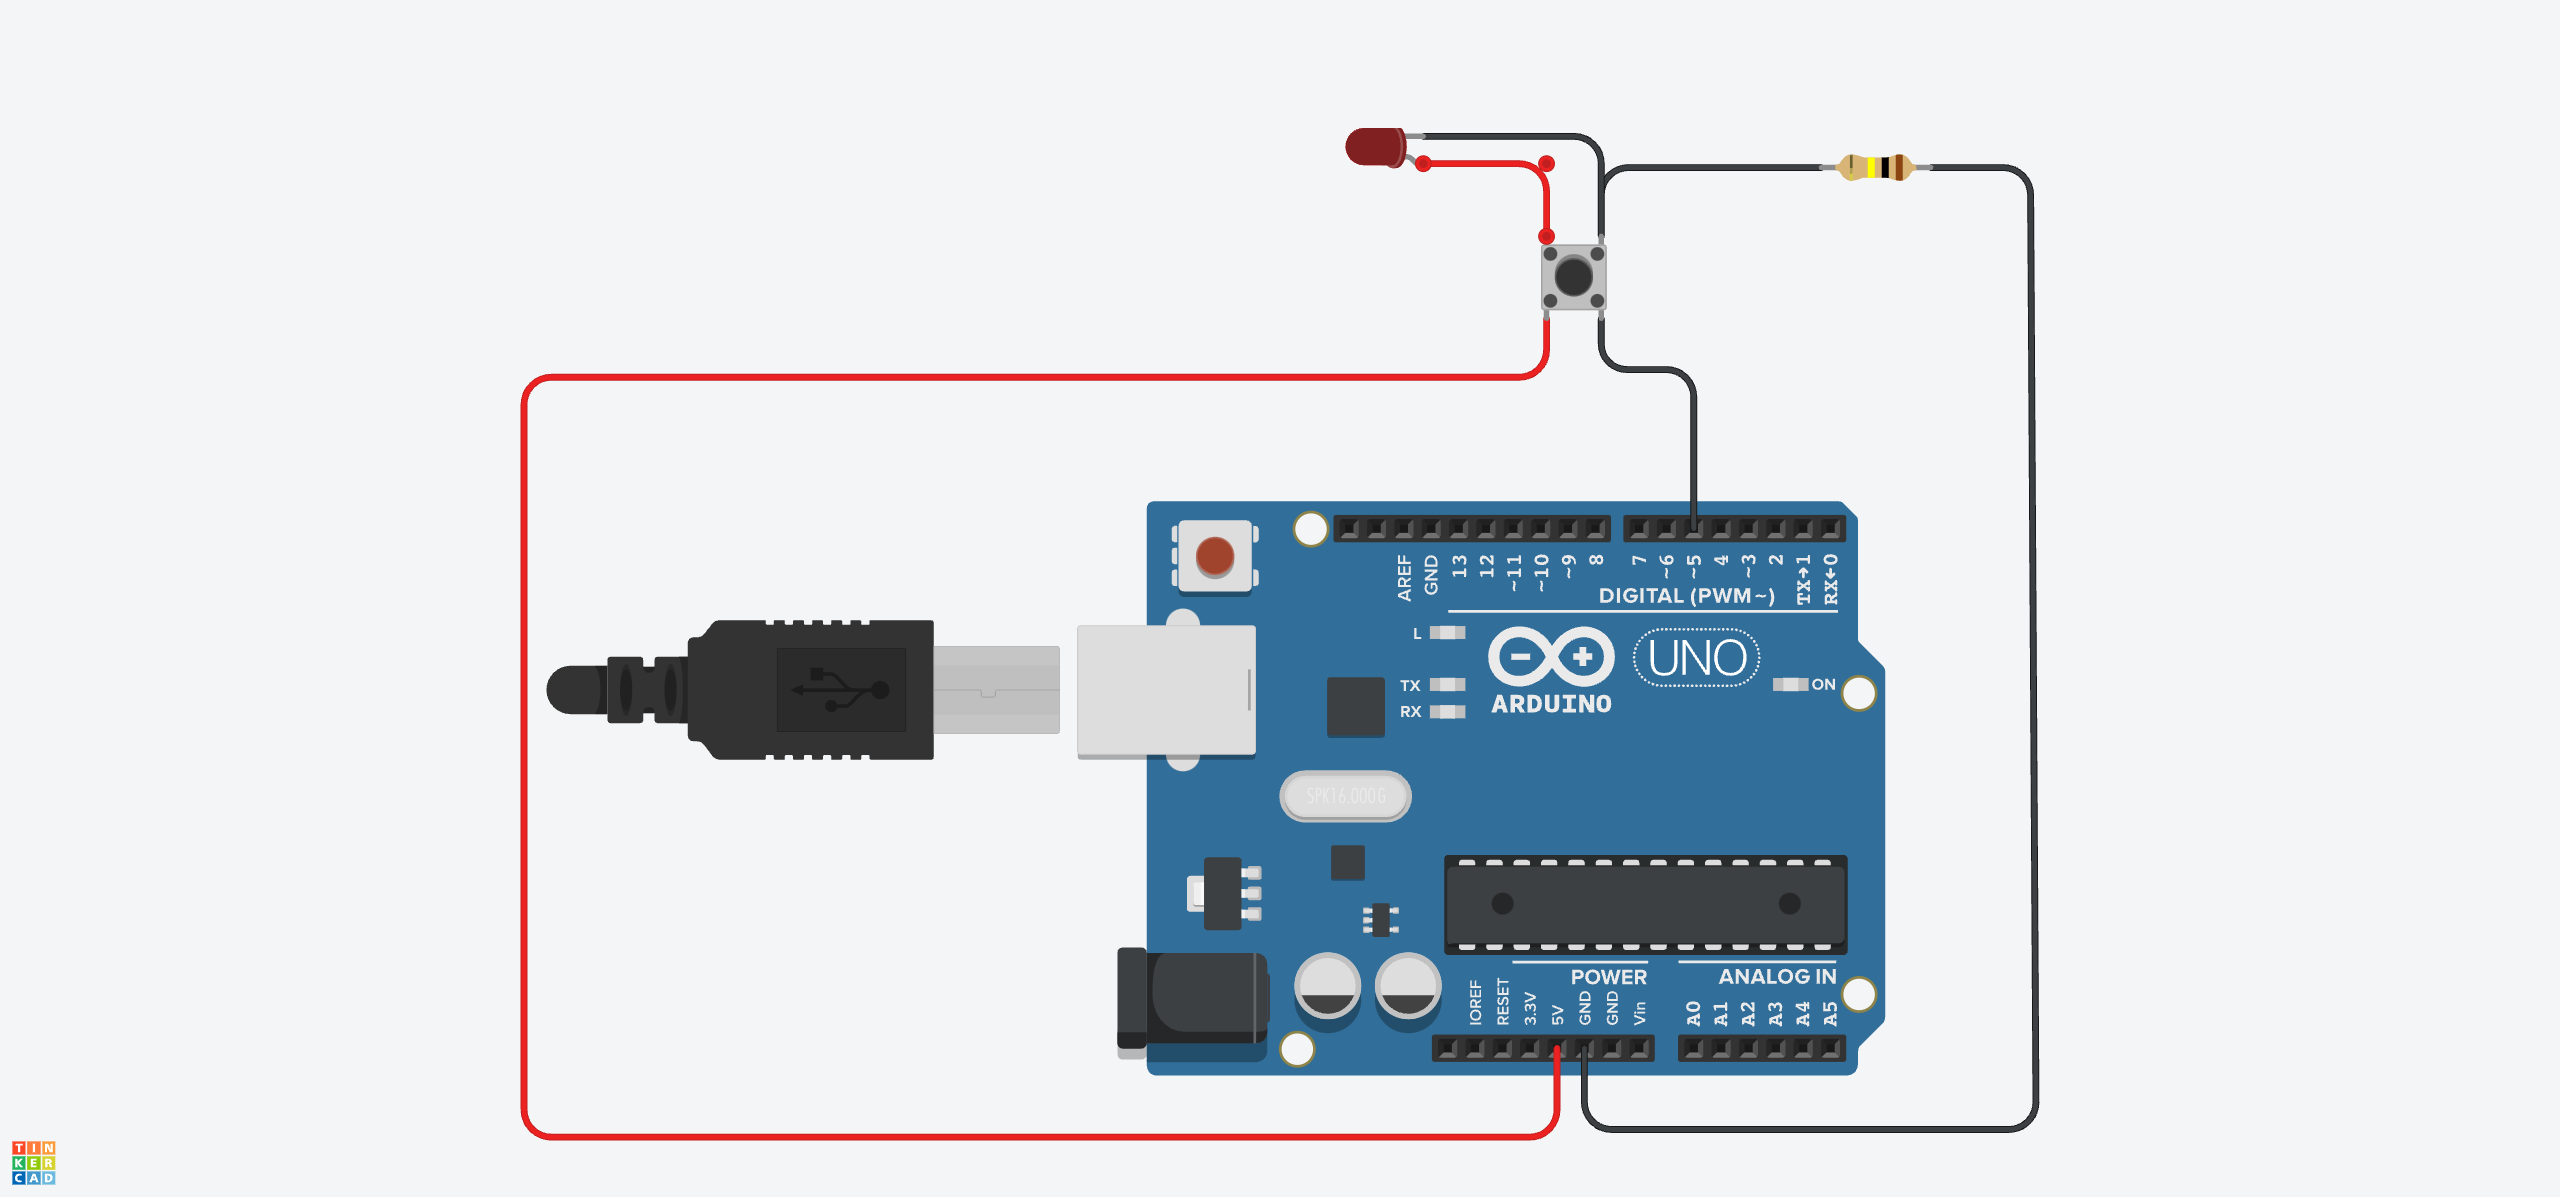
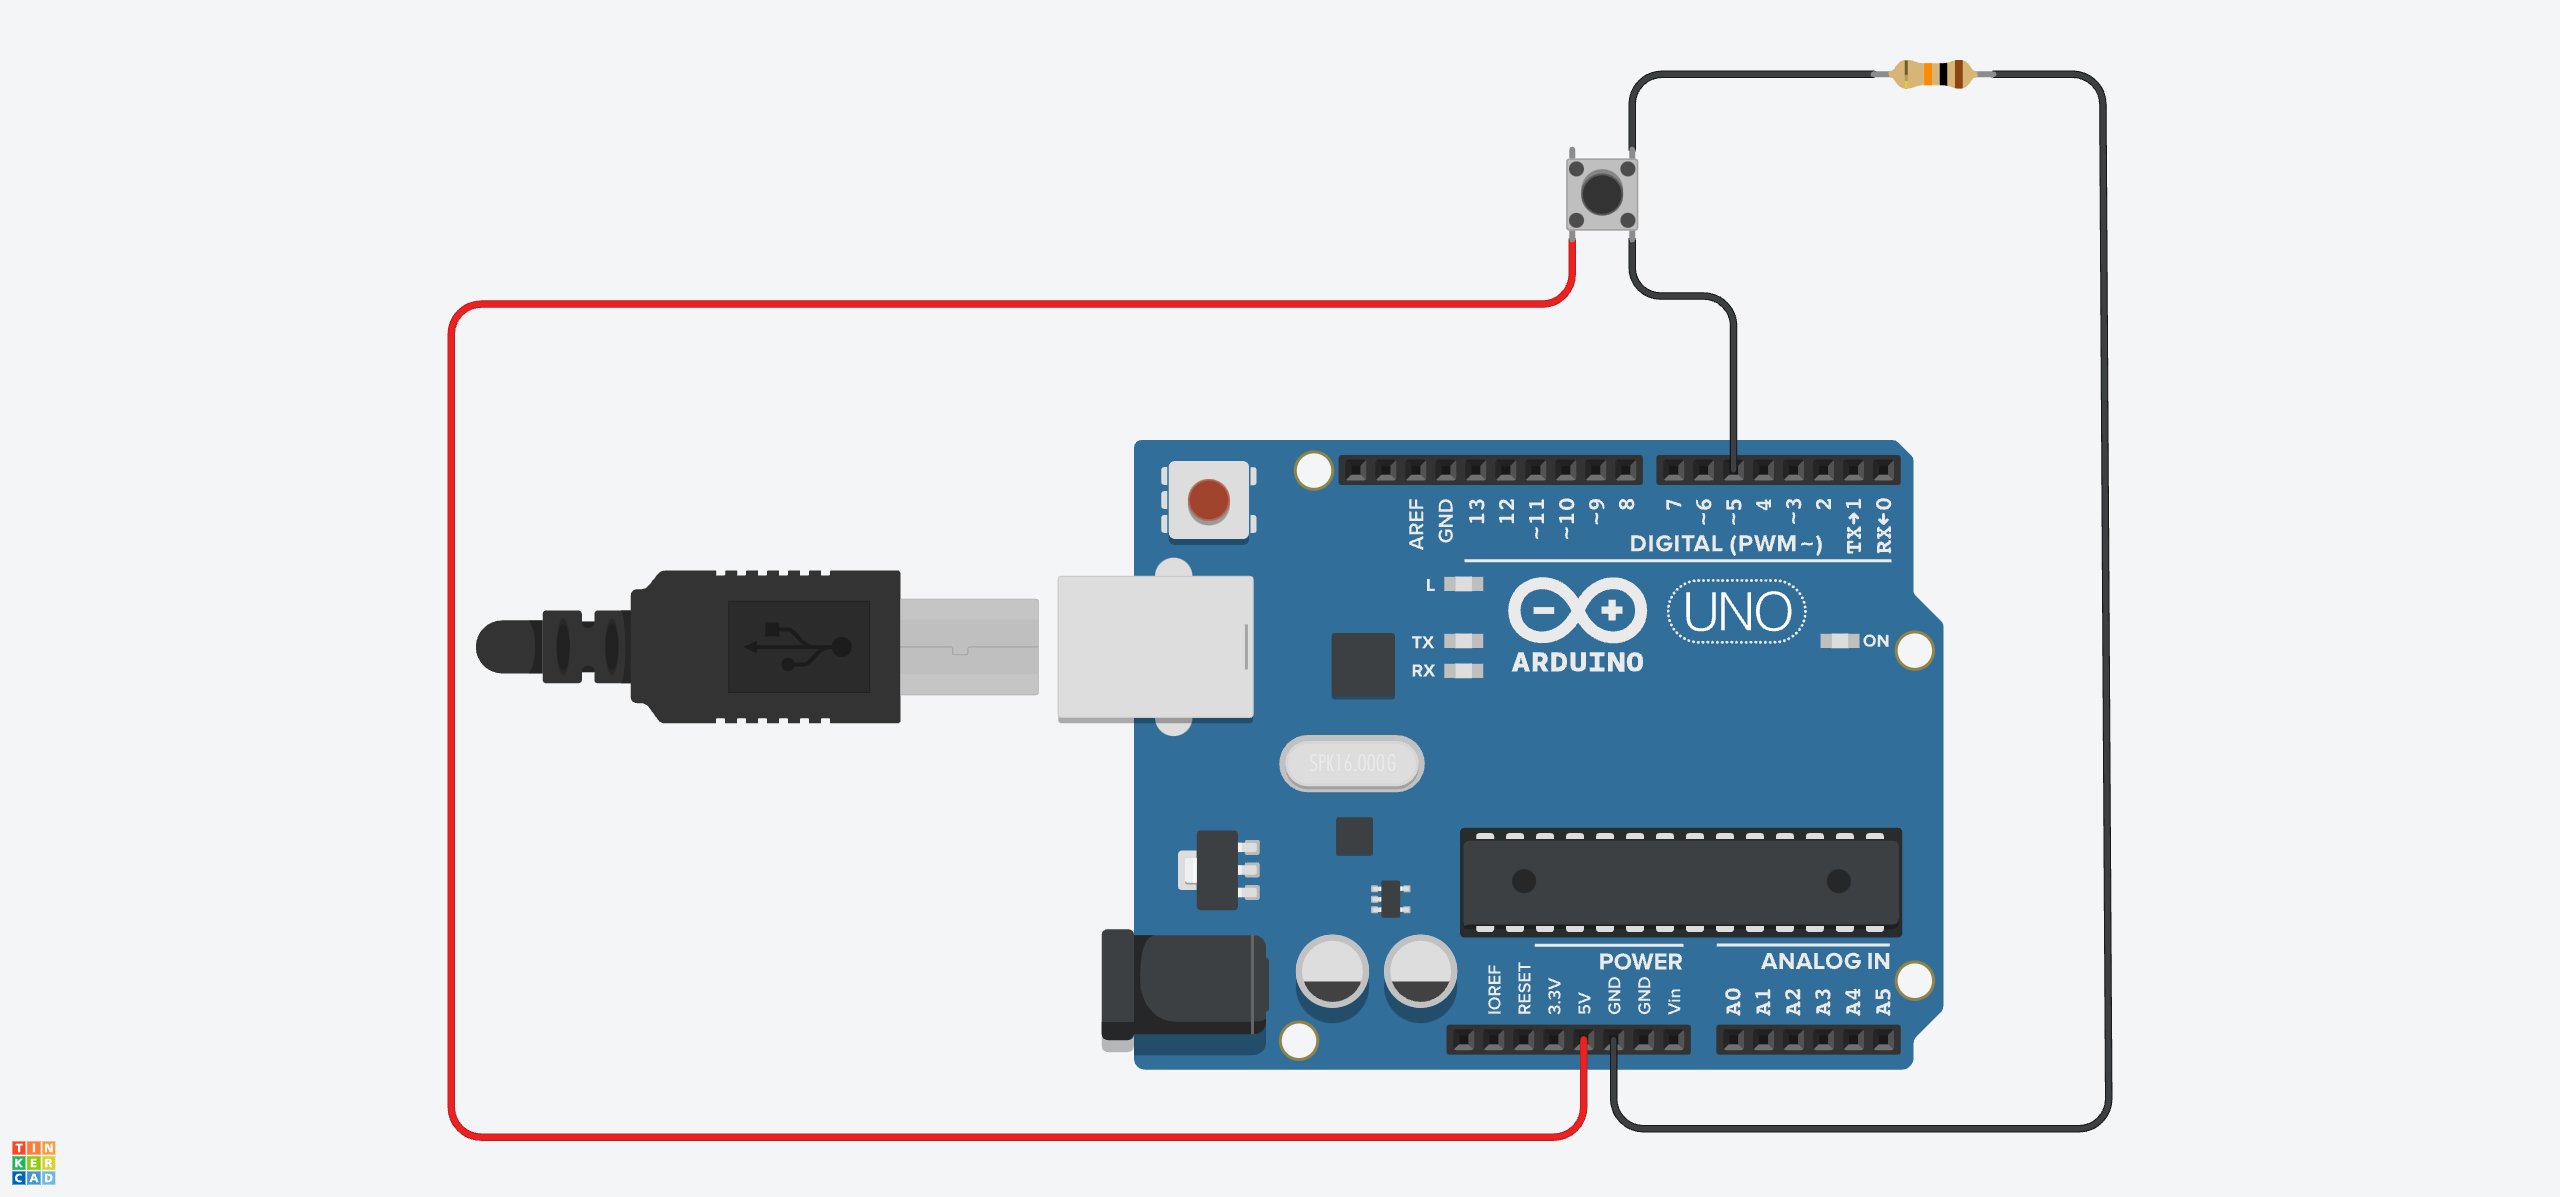
docs: fix pull-up and pull-down schema

diff --git a/02-arduino.md b/02-arduino.md
@@ -12,6 +12,7 @@
       - [Analog Output (PWM) Pins](#analog-output-pwm-pins)
       - [Analog Input Pins](#analog-input-pins)
     - [Communication](#communication)
+  - [Arduino IDE code](#arduino-ide-code)
 
 Arduino is an open-source electronics platform based on easy-to-use hardware and software. It's intended for anyone making interactive projects. We can find several Arduino board manufactures, besides Arduino itself.
 
@@ -112,21 +113,28 @@ We can use a digital pin as output to contorl an external sensor, like for examp
 
 #### Digital Input Pin
 
-We can also use the digital pins to receive an input, **HIGH** or **LOW** from an external sensor like a button. In the following schematics we use a button to receive an input in Digital Pin 5. To avoid a Floating or Hanging value (when the state of the digital input is not specified), we added a Pull-up resistor, More on [Floating ground](https://en.wikipedia.org/wiki/Floating_ground) and [Pull-up and Pull-down resistors](https://techexplorations.com/blog/electronics/blog-what-are-pull-up-and-pull-down-resistors/).
+We can also use the digital pins to receive an input, **HIGH** or **LOW** from an external sensor like a button.
 
-- When the button is not pressed the LED is on, because current flows through the outer circuit with the resistor and Digital Pin 5 as a voltage, so we receive **HIGH** input.
-- When the button is pressed current flows through the inner circuit, because it has less resistance, and the LED is off, so we receive an **LOW** input.
+In the following schematics we use a push-button to receive an input in Digital Pin 5. To avoid a Floating or Hanging value (when the state of the digital input is not specified), we need to ad a Pull-up or Pull-down resistor.
 
-| Button    | D5   | LED |
-| --------- | ---- | --- |
-| Unpressed | HIGH | ON  |
-| Pressed   | LOW  | OFF |
+More on [Floating ground](https://en.wikipedia.org/wiki/Floating_ground) and [Pull-up and Pull-down resistors](https://techexplorations.com/blog/electronics/blog-what-are-pull-up-and-pull-down-resistors/).
+
+- **Pull-up resistor**:
+  - When the **button is not pressed** current flows from **5V Pin** to **Digital Pin 5** with the resistor, so **Digital Pin 5** as a **HIGH** value.
+  - When the **button is pressed**, **Digital Pin 5** as a **LOW** value, coming from **GND Pin**, current is not able to flow from **5V Pin** to **Digital Pin 5** due to higher resistance.
+
+| Button    | D5   |
+| --------- | ---- |
+| Unpressed | HIGH |
+| Pressed   | LOW  |
 
 ![Digital Input Button Pull-up resistor](./images/digital_input_button_pull_up_resistor.png)
 
 [Tinkercad Digital Input Button Pull-up resistor](https://www.tinkercad.com/things/4MaUEItR2Ej-digital-input-button-pull-up-resistor?sharecode=TK0xnTVVXEglhikOcDwrLlz27E5Ef8HxLA1ax_gbmfo)
 
-We can build a Pull-down resistors connecting it to ground.
+- **Pull-down resistor**:
+  - When the **button is not pressed**, **Digital Pin 5** as a clear **LOW** value from **GND Pin**.
+  - When the **button is pressed** current flows through it from **5V Pin**, and **Digital Pin 5** as a **HIGH** value. because it has less resistance.
 
 | Button    | D5   | LED |
 | --------- | ---- | --- |
@@ -183,3 +191,32 @@ The Arduino Uno R3 board implement 3 [communications protocols](https://en.wikip
 - [Universal Asynchronous Receiver-Transmitter (UART)](https://docs.arduino.cc/learn/communication/uart/) - [Wikipedia](https://en.wikipedia.org/wiki/Universal_asynchronous_receiver-transmitter)
 - [Inter-Integrated Circuit (I2C) Protocol](https://docs.arduino.cc/learn/communication/wire/) - [Wikipedia](https://en.wikipedia.org/wiki/I%C2%B2C)
 - [Serial Peripheral Interface (SPI)](https://docs.arduino.cc/learn/communication/spi/) - [Wikipedia](https://en.wikipedia.org/wiki/Serial_Peripheral_Interface) - [Duplex (telecommunications)](<https://en.wikipedia.org/wiki/Duplex_(telecommunications)>)
+
+## Arduino IDE code
+
+The Arduino language is based on **C++**, and it is designed to be user friendly to beginner users. We can use the [Arduino IDE](https://docs.arduino.cc/software/ide-v2/tutorials/getting-started-ide-v2/) to create [Arduino Sketches](https://docs.arduino.cc/learn/programming/sketches/), which are just a text file with some Arduino program that we can upload to the board, the extension used is `.ino`.
+
+```c++
+#define RED_LED_PIN 3
+#define GREEN_LED_PIN 5
+#define BLUE_LED_PIN 6
+
+void setup() {
+  pinMode(RED_LED_PIN, OUTPUT);
+  pinMode(GREEN_LED_PIN, OUTPUT);
+  pinMode(BLUE_LED_PIN, OUTPUT);
+}
+
+void loop() {
+  digitalWrite(RED_LED_PIN, HIGH);
+  delay(1000);
+  digitalWrite(RED_LED_PIN, LOW);
+  digitalWrite(GREEN_LED_PIN, HIGH);
+  delay(1000);
+  digitalWrite(GREEN_LED_PIN, LOW);
+  digitalWrite(BLUE_LED_PIN, HIGH);
+  delay(1000);
+  digitalWrite(BLUE_LED_PIN, LOW);
+  delay(1000);
+}
+```
